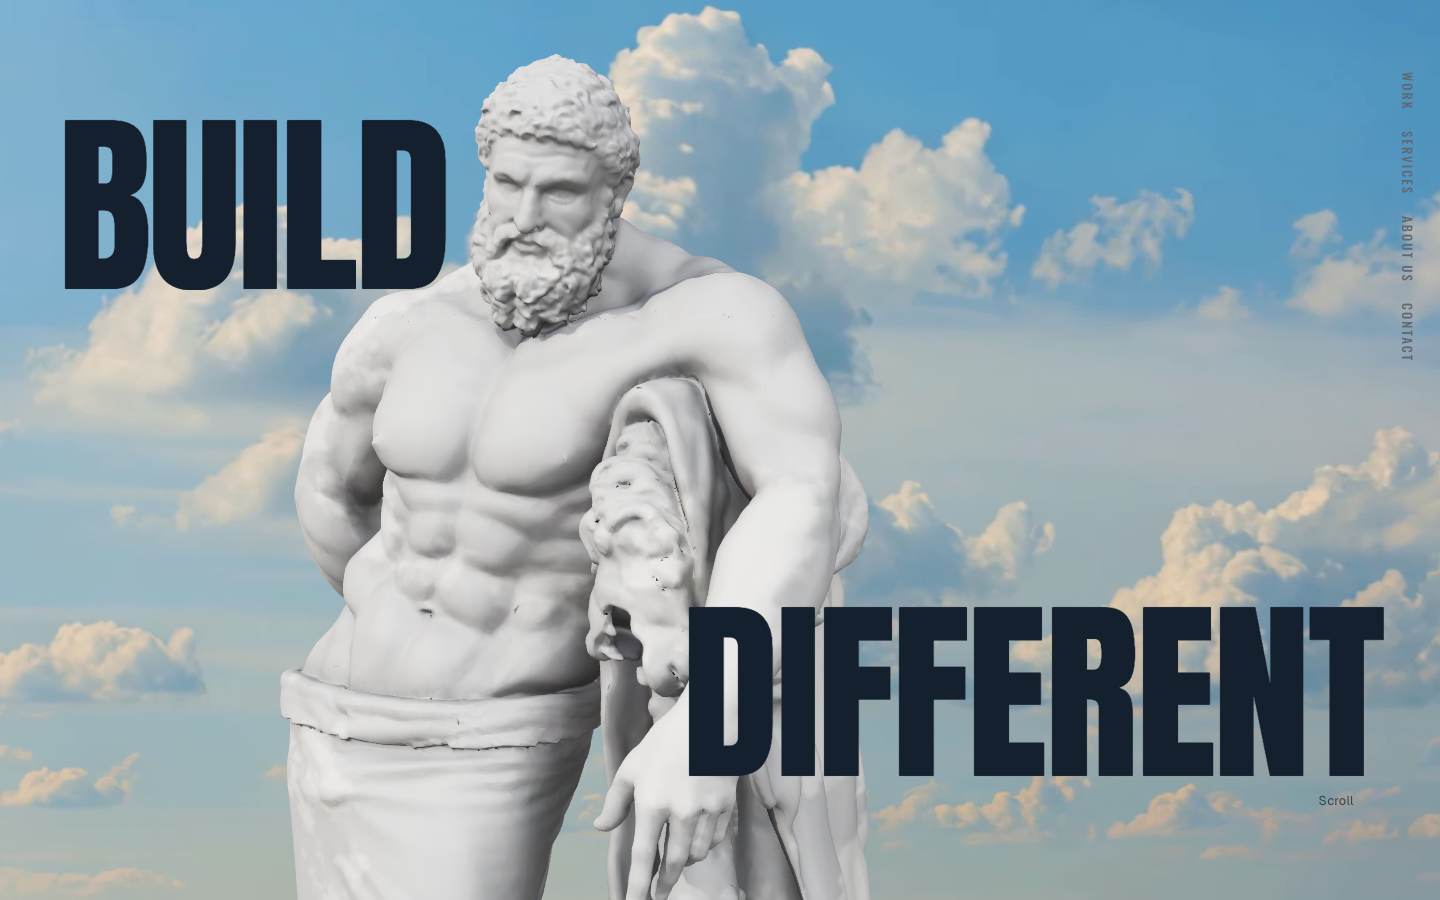
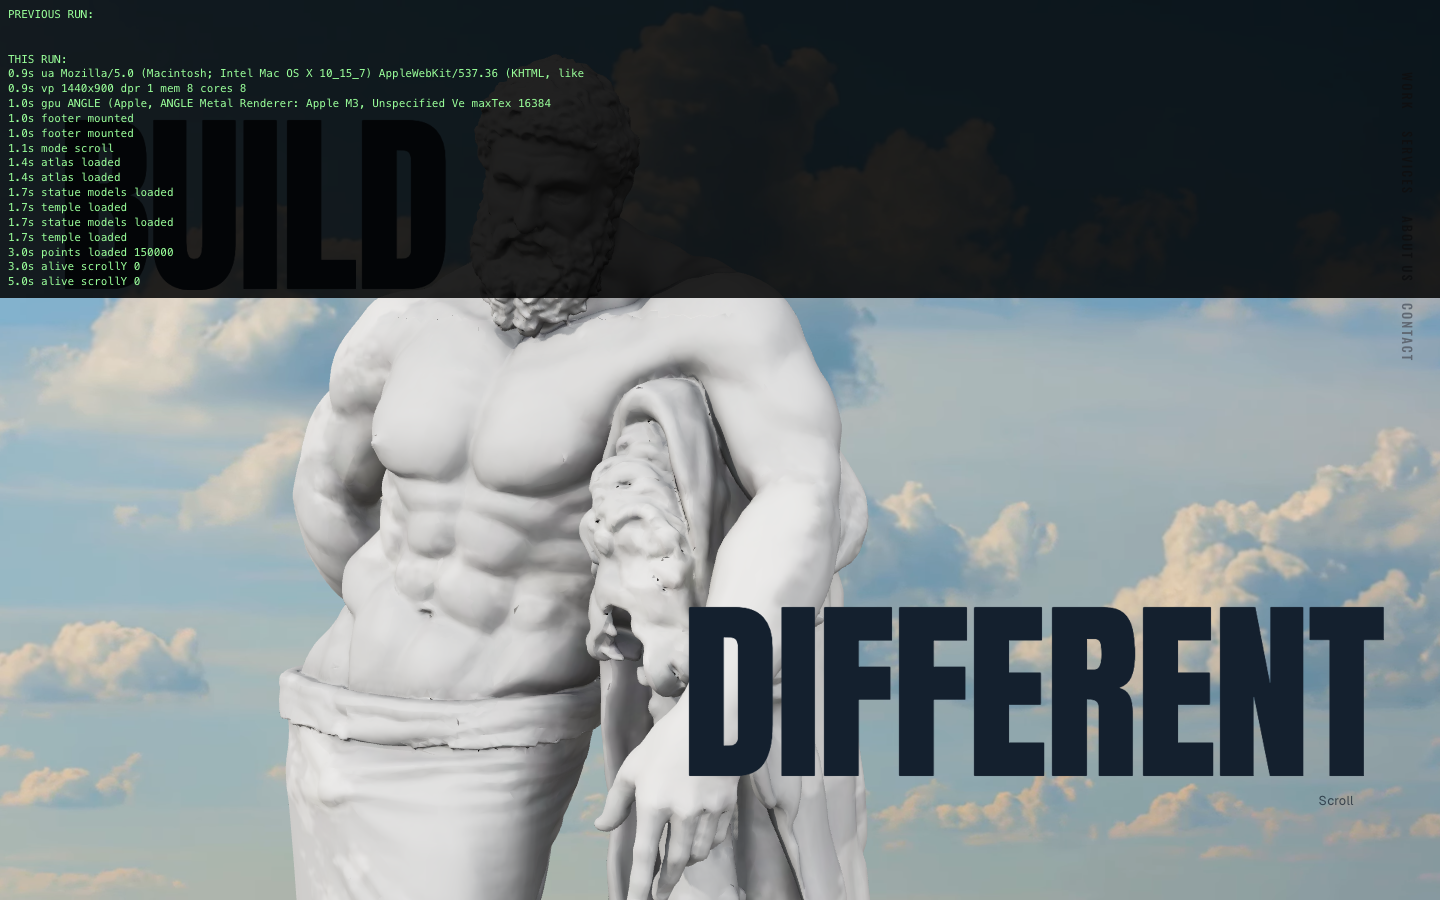
On-device diagnostics: stage log in localStorage, shown with ?diag
Claude-Session: https://claude.ai/code/session_01NAdPXLUXCGhh82qBsMYyAh

diff --git a/src/hero/diag.ts b/src/hero/diag.ts
@@ -1,0 +1,51 @@
+/**
+ * On-device diagnostics for crashes we cannot see. Every stage writes a line to localStorage as it happens, so
+ * when the tab is killed the next load with ?diag shows how far the previous run got. Cheap: a few string writes.
+ */
+const KEY = "bd-diag";
+let started = false;
+let box: HTMLElement | null = null;
+
+function read(): string[] { try { return JSON.parse(localStorage.getItem(KEY) || "[]"); } catch { return []; } }
+function write(lines: string[]) { try { localStorage.setItem(KEY, JSON.stringify(lines.slice(-60))); } catch { /* storage may be off */ } }
+
+export function diag(msg: string) {
+  if (typeof window === "undefined") return;
+  const line = `${(performance.now() / 1000).toFixed(1)}s ${msg}`;
+  const lines = read(); lines.push(line); write(lines);
+  if (box) box.textContent += "\n" + line;
+}
+
+/** call once at first client mount */
+export function diagStart() {
+  if (typeof window === "undefined" || started) return;
+  started = true;
+  const show = new URLSearchParams(location.search).has("diag");
+  const previous = read();
+  write(["--- new run " + new Date().toISOString()]);
+  if (show) {
+    box = document.createElement("pre");
+    box.style.cssText = "position:fixed;left:0;top:0;z-index:99999;margin:0;padding:8px;max-height:60vh;overflow:auto;font:11px/1.35 monospace;background:rgba(0,0,0,.85);color:#9f9;white-space:pre-wrap;pointer-events:auto;width:100vw;box-sizing:border-box";
+    box.textContent = "PREVIOUS RUN:\n" + previous.join("\n") + "\n\nTHIS RUN:";
+    document.body.appendChild(box);
+  }
+  const nav = navigator as Navigator & { deviceMemory?: number; hardwareConcurrency?: number };
+  diag(`ua ${navigator.userAgent.slice(0, 80)}`);
+  diag(`vp ${innerWidth}x${innerHeight} dpr ${devicePixelRatio} mem ${nav.deviceMemory ?? "?"} cores ${nav.hardwareConcurrency ?? "?"}`);
+  try {
+    const c = document.createElement("canvas");
+    const gl = c.getContext("webgl2") as WebGL2RenderingContext | null;
+    if (gl) {
+      const ext = gl.getExtension("WEBGL_debug_renderer_info");
+      const r = ext ? gl.getParameter(ext.UNMASKED_RENDERER_WEBGL) : gl.getParameter(gl.RENDERER);
+      diag(`gpu ${String(r).slice(0, 60)} maxTex ${gl.getParameter(gl.MAX_TEXTURE_SIZE)}`);
+      gl.getExtension("WEBGL_lose_context")?.loseContext();
+    } else diag("no webgl2");
+  } catch (e) { diag("gl probe failed " + String(e).slice(0, 60)); }
+  window.addEventListener("error", (e) => diag("error " + String(e.message).slice(0, 120)));
+  window.addEventListener("unhandledrejection", (e) => diag("rejection " + String(e.reason).slice(0, 120)));
+  // heartbeat so we know how long the run lived
+  let n = 0;
+  const beat = () => { n++; if (n <= 30) { diag(`alive scrollY ${Math.round(scrollY)}`); setTimeout(beat, 2000); } };
+  setTimeout(beat, 2000);
+}

diff --git a/src/hero/PortalScreen.tsx b/src/hero/PortalScreen.tsx
@@ -1,4 +1,5 @@
 "use client";
+import { diag } from "./diag";
 import { PHONE } from "./Statue";
 import { useFrame, useThree } from "@react-three/fiber";
 import { useEffect, useMemo, useRef } from "react";
@@ -60,6 +61,7 @@ export function PortalScreen({ onTexture, frozen = false }: { onTexture: (t: THR
     const tw = Math.round(bufSize.y * fill * screenAspect.value);
     const th = Math.round(bufSize.y * fill);
     if (!target.current || target.current.width !== tw || target.current.height !== th) {
+      if (!target.current) diag(`portal target ${tw}x${th}`);
       target.current?.dispose();
       target.current = new THREE.WebGLRenderTarget(tw, th, { samples: PHONE ? 0 : 2, depthBuffer: true });  // no MSAA target on phones, it doubles the memory
       target.current.texture.colorSpace = THREE.NoColorSpace;  // raw shader output, no GPU encode on write

diff --git a/src/hero/Temple.tsx b/src/hero/Temple.tsx
@@ -1,7 +1,8 @@
 "use client";
+import { diag } from "./diag";
 import { useGLTF } from "@react-three/drei";
 import { useFrame, useThree } from "@react-three/fiber";
-import { useMemo, useRef } from "react";
+import { useEffect, useMemo, useRef } from "react";
 import * as THREE from "three";
 import { Q, ease, remap } from "./beats";
 import { progress } from "./progress";
@@ -13,6 +14,7 @@ const DRACO = "/draco/";
 /** The hand holding the temple. Rises out of the dust where the pillar stood and holds, turning slowly. */
 export function Temple({ frozen = false }: { frozen?: boolean }) {
   const gltf = useGLTF(TEMPLE, DRACO);
+  useEffect(() => { diag("temple loaded"); }, []);
   const group = useRef<THREE.Group>(null);
   const clock = useRef(0);
   const scene = useMemo(() => {

diff --git a/src/hero/Morph.tsx b/src/hero/Morph.tsx
@@ -1,4 +1,5 @@
 "use client";
+import { diag } from "./diag";
 import { useFrame, useThree } from "@react-three/fiber";
 import { useEffect, useMemo, useRef, useState } from "react";
 import * as THREE from "three";
@@ -233,6 +234,7 @@ async function loadPoints(set: "desktop" | "mobile"): Promise<Buffers> {
   for (let i = 0; i < n; i++) maxY = Math.max(maxY, posB[i * 3 + 1]);
   pointsState.maxYB = maxY;
   pointsState.loaded = true;
+  diag(`points loaded ${n}`);
   // rebuild order: ground up on the pillar, with a little grain so the front is ragged
   for (let i = 0; i < n; i++) delayB[i] = Math.min(1, (posB[i * 3 + 1] / maxY) * 0.9 + ((i * 7919) % 1000) / 1000 * 0.06);
   return { pos, nrm, col, delay, posB, colB, delayB, count: n };

diff --git a/src/footer/AtlasCanvas.tsx b/src/footer/AtlasCanvas.tsx
@@ -1,4 +1,5 @@
 "use client";
+import { diag } from "@/hero/diag";
 import { Canvas, useFrame } from "@react-three/fiber";
 import { ContactShadows, Environment, useGLTF } from "@react-three/drei";
 import { Suspense, useEffect, useMemo, useRef, useState } from "react";
@@ -13,6 +14,7 @@ const FRONT = qaYaw !== null ? Number(qaYaw) : -Math.PI / 2;
 
 function Atlas({ visible }: { visible: boolean }) {
   const gltf = useGLTF(ATLAS, DRACO);
+  useEffect(() => { diag("atlas loaded"); }, []);
   const group = useRef<THREE.Group>(null);
   // every time the footer comes into view he starts facing forward, then turns
   useEffect(() => { if (visible && group.current) group.current.rotation.y = FRONT; }, [visible]);

diff --git a/src/footer/Footer.tsx b/src/footer/Footer.tsx
@@ -1,4 +1,5 @@
 "use client";
+import { diag } from "@/hero/diag";
 import { useEffect, useState } from "react";
 import { qa } from "@/hero/qa";
 import { AtlasCanvas } from "./AtlasCanvas";
@@ -11,6 +12,7 @@ export function Footer({ standalone = false }: { standalone?: boolean }) {
   // Phones get no Waves shader by default: its fragment loop stalls the iPhone GPU and the tab is killed.
   const [flags, setFlags] = useState({ waves: true, atlas: true });
   useEffect(() => {
+    diag("footer mounted");
     const phone = window.innerWidth < 820;
     setFlags({ waves: !qa("plain") && !qa("nowaves") && (!phone || qa("waves")), atlas: !qa("plain") && !qa("noatlas") });
   }, []);

diff --git a/src/hero/Statue.tsx b/src/hero/Statue.tsx
@@ -1,4 +1,5 @@
 "use client";
+import { diag } from "./diag";
 import { useGLTF } from "@react-three/drei";
 import { useFrame } from "@react-three/fiber";
 import { useEffect, useMemo, useRef } from "react";
@@ -45,6 +46,7 @@ function prepare(scene: THREE.Group) {
 
 export function Statue({ frozen = false }: { frozen?: boolean }) {
   const lod0 = useGLTF(STATUE.lod0, DRACO);
+  useEffect(() => { diag("statue models loaded"); }, []);
   const lod1 = useGLTF(STATUE.lod1, DRACO);
   const group = useRef<THREE.Group>(null);
   const idle = useRef(0);

diff --git a/src/hero/Hero.tsx b/src/hero/Hero.tsx
@@ -1,4 +1,5 @@
 "use client";
+import { diag, diagStart } from "./diag";
 import dynamic from "next/dynamic";
 import { useEffect, useRef, useState } from "react";
 import gsap from "gsap";
@@ -37,6 +38,8 @@ function detectMode(): Mode {
 
 export function Hero() {
   const [mode, setMode] = useState<Mode>("pending");
+  useEffect(() => { diagStart(); }, []);
+  useEffect(() => { if (mode !== "pending") diag("mode " + mode); }, [mode]);
   const section = useRef<HTMLElement>(null);
   const stage = useRef<HTMLDivElement>(null);
 
